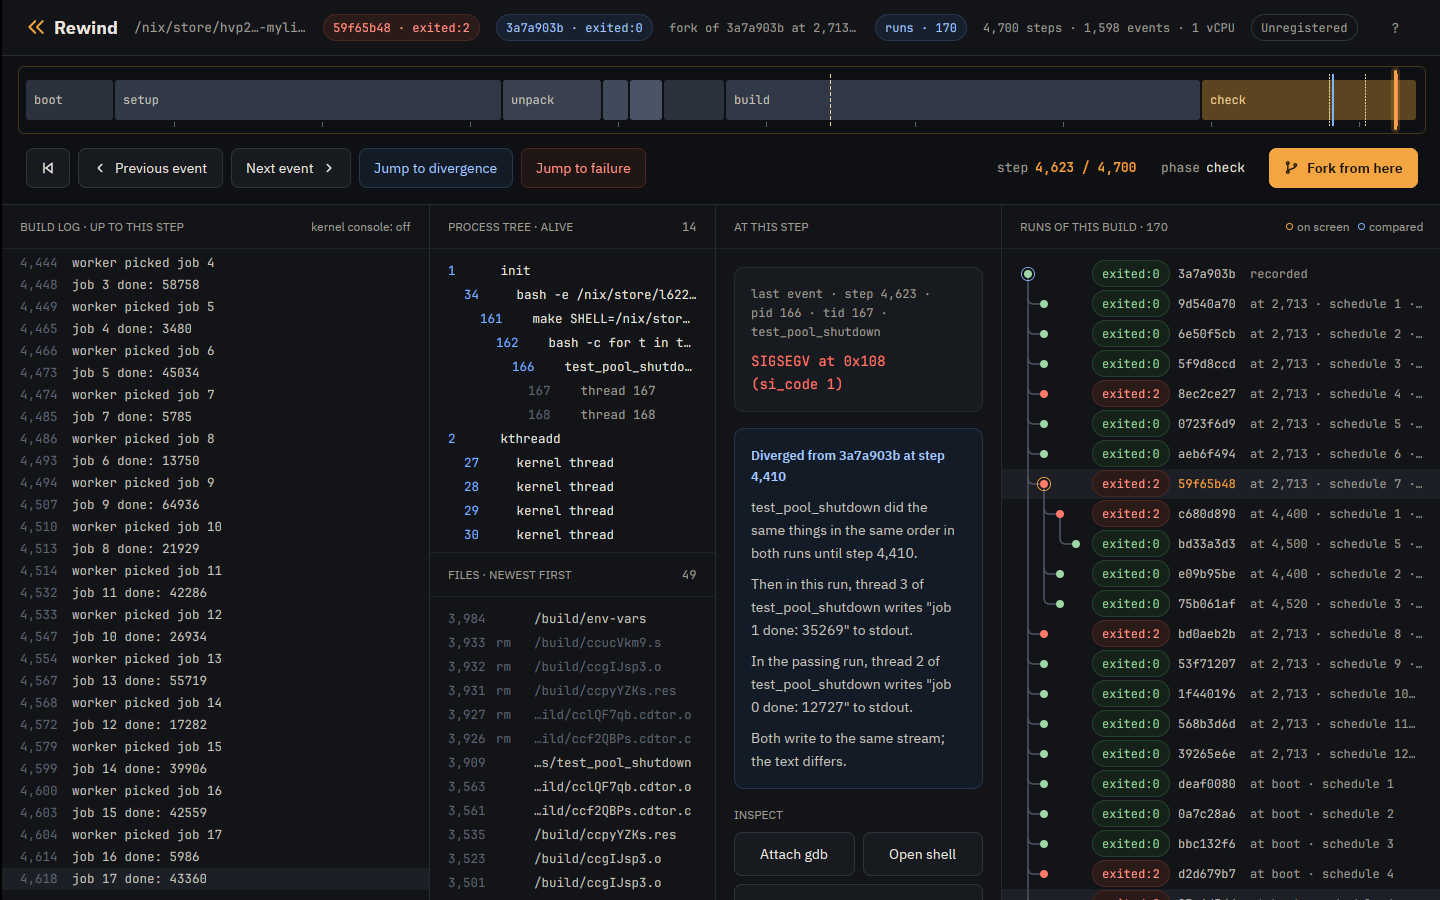
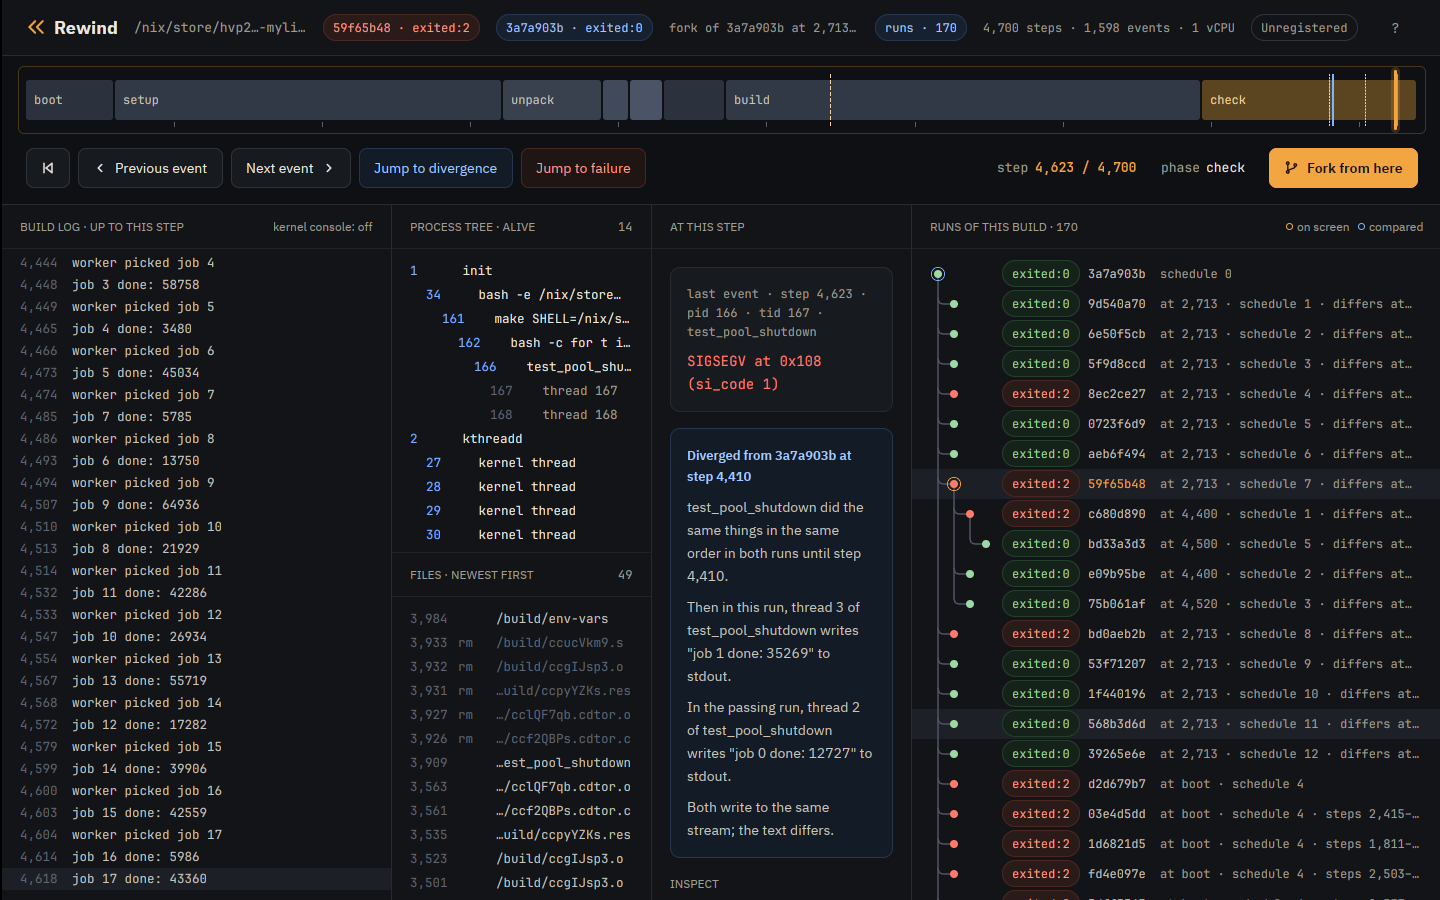
Describe the folded Runs panel and retake its shots
Claude-Session: https://claude.ai/code/session_01JHGPYecv1PHANiG4SNwbAJ

Changed region(s): [[0.2812, 0.2489, 0.9688, 1.0], [0.1875, 0.2489, 0.6562, 0.6533], [0.4688, 0.2489, 0.5625, 0.28]]

diff --git a/site/index.html b/site/index.html
@@ -333,10 +333,11 @@
             <li class="tour-card" id="tour-6" tabindex="0">
               <h3>Every run of this build</h3>
               <p>
-                The run as recorded, the schedules <code>rewind check</code> tried and every fork,
-                drawn as a tree: each fork branches off the run it came from, red for failed and
-                green for passed. Click one to open it beside its parent; right-click to compare,
-                copy or remove it with its forks.
+                Schedule 0, the run with its threads left alone, every fork, and the schedules
+                <code>rewind check</code> tried, drawn as a tree: each fork branches off the run it
+                came from, red for failed and green for passed, and the schedules that ended the
+                same way fold into one row. Click one to open it beside the run it hangs under;
+                right-click to compare, copy or remove it with its forks.
               </p>
             </li>
           </ol>

diff --git a/README.md b/README.md
@@ -168,17 +168,21 @@ Open shell starts a shell inside the VM at the playhead, in the build's
 directory with its environment, and Attach gdb opens gdb on the same fork,
 both in a terminal pane below the scrubber.
 
-Every run of a build is one family: the run as recorded, the schedules
-`rewind check` tried, and every fork. The start screen lists one line per
-family however many forks it has, and the runs pill in the header opens the
-Runs panel, which draws the family as a tree the way ISL and Jujutsu draw a
-history: each fork branches off the run it came from, red for failed and green
-for passed, with the step it forked at, its schedule and where it first
-differs. Click a run to open it beside its parent; right-click it to compare it
-with the run on screen, copy its id, or remove it with its forks.
+Every run of a build is one family: the run under schedule 0, with its
+threads left alone, the schedules `rewind check` tried, and every fork. The
+start screen lists one line per family however many runs it has, and the runs
+pill in the header opens the Runs panel, which draws the family as a tree the
+way ISL and Jujutsu draw a history. Each fork branches off the run it came
+from, red for failed and green for passed, with the step it forked at, its
+schedule and where it first differs. The schedules `rewind check` ran from
+boot hang off the schedule 0 run, and those that ended the way it did fold into
+one row that opens on a click. A family recorded on two machines, or with
+different `--cores`, has a schedule 0 run for each. Click a run to open it
+beside the run it hangs under; right-click it to compare it with the run on
+screen, copy its id, or remove it with its forks.
 
 <p align="center">
-  <img src="docs/img/app-runs.png" alt="The Runs panel: the mylib build's runs as a tree under the passing recorded run, with twelve forks of it at step 2,713, one crashed fork with forks of its own at steps 4,400 and 4,520 and a fork of a fork at 4,500, then the schedules rewind check ran from boot, each with its exit status and schedule." />
+  <img src="docs/img/app-runs.png" alt="The Runs panel: the mylib build's 170 runs as a tree under the passing schedule 0 run, with twelve forks of it at step 2,713, one crashed fork with forks of its own at steps 4,400 and 4,520 and a fork of a fork at 4,500, then the failing schedules rewind check ran from boot, each with its exit status, schedule and the steps it perturbed." />
 </p>
 
 <p align="center">
